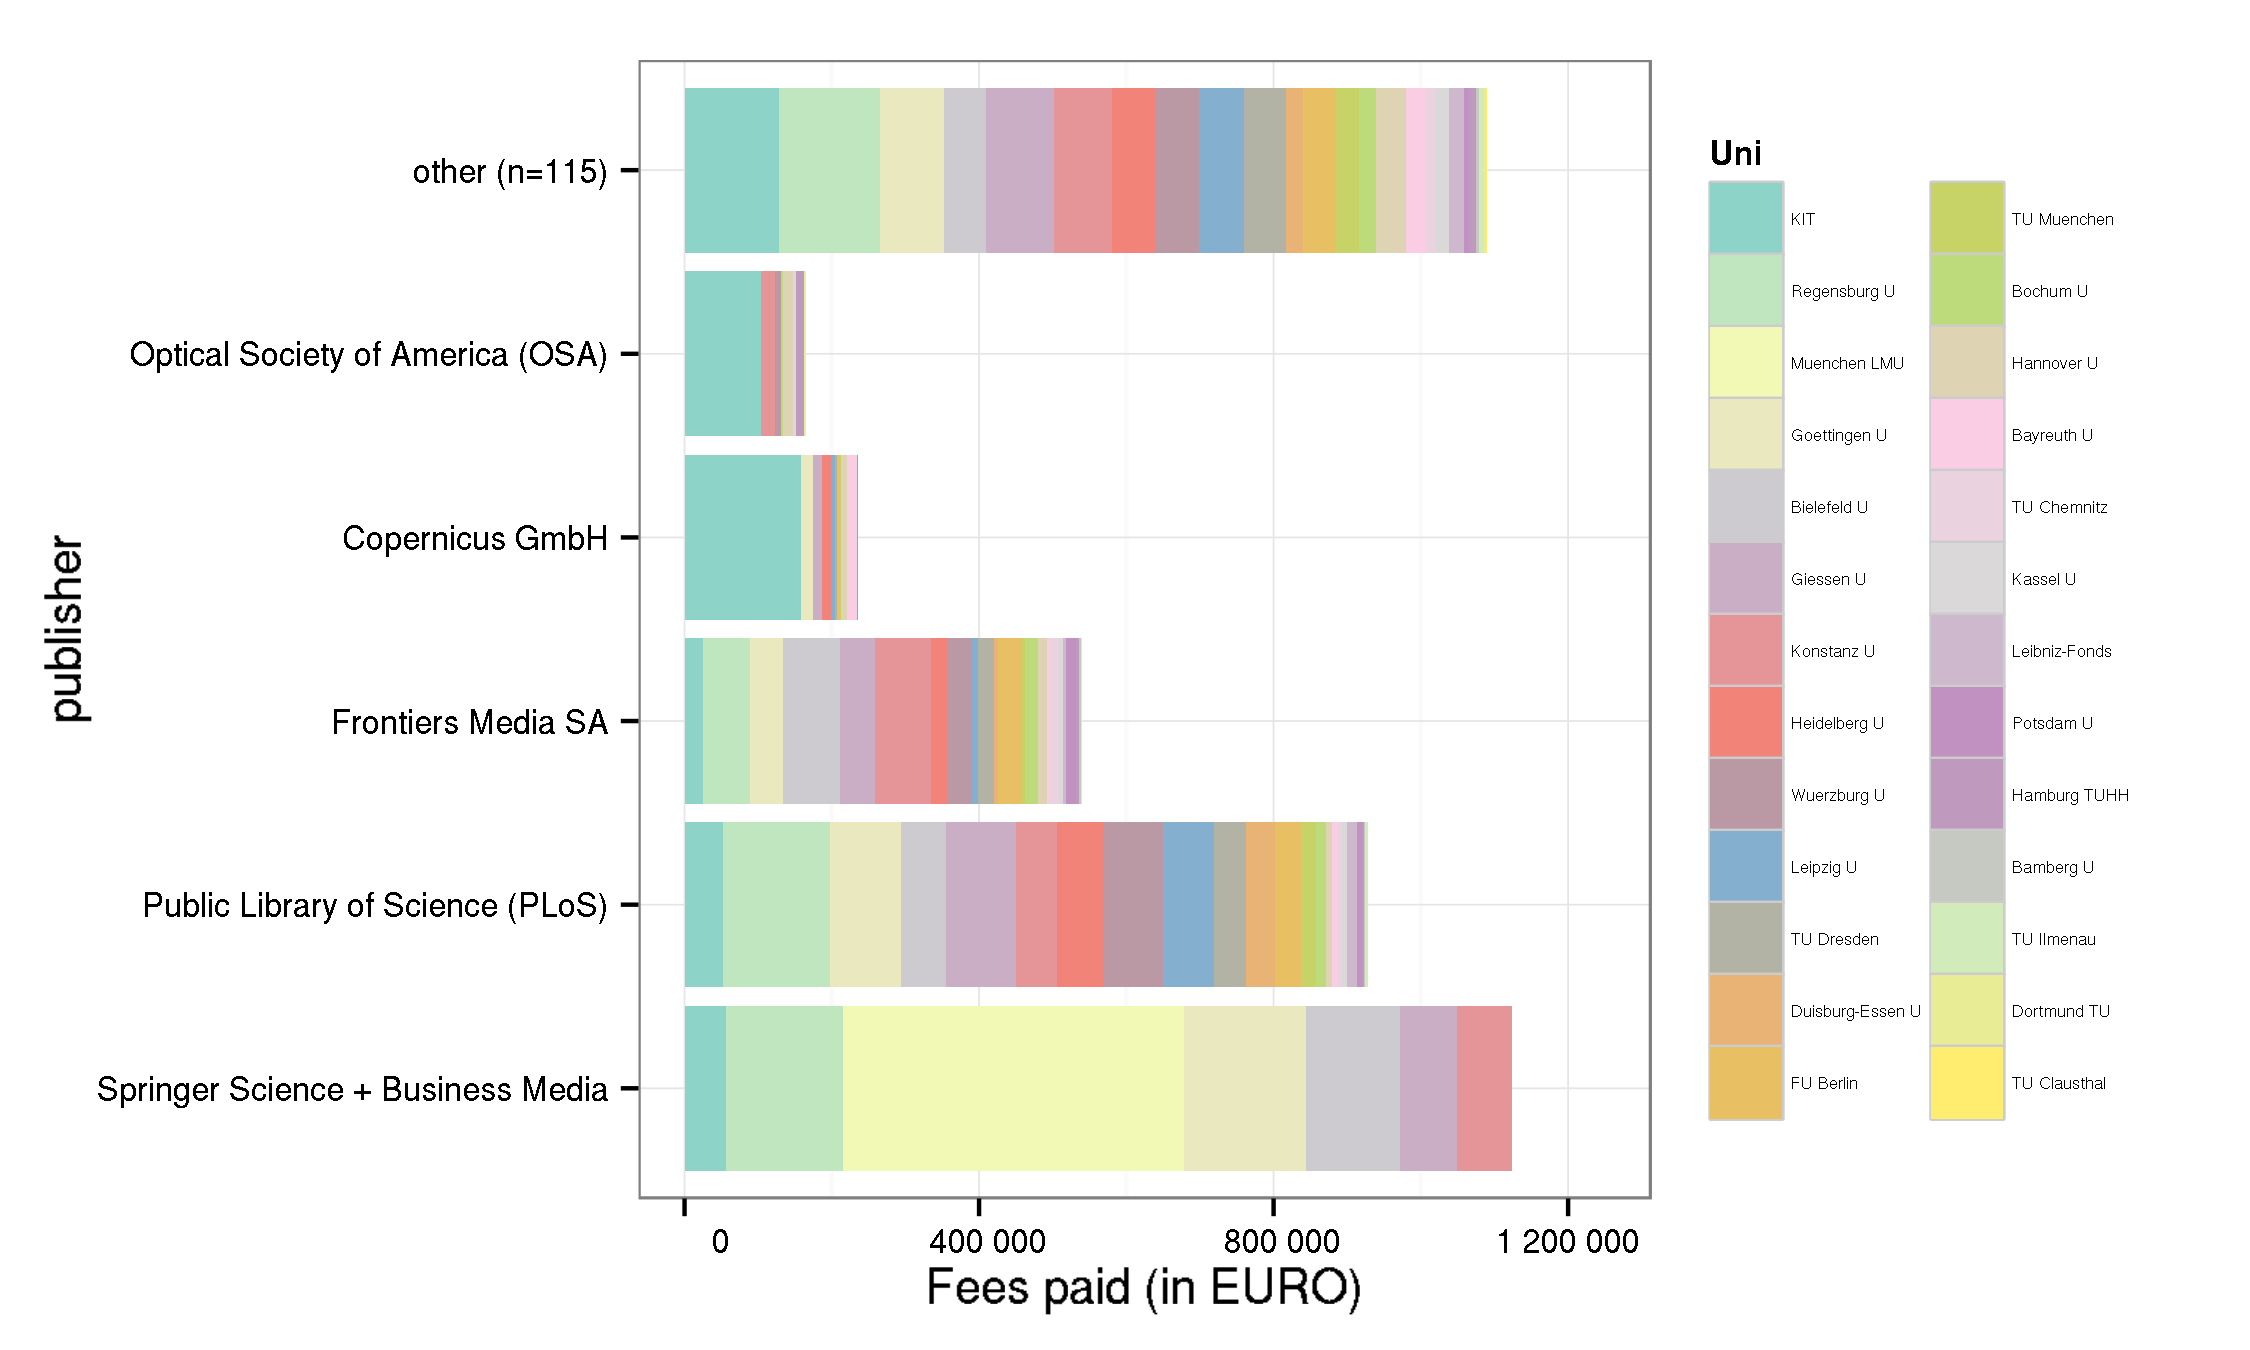
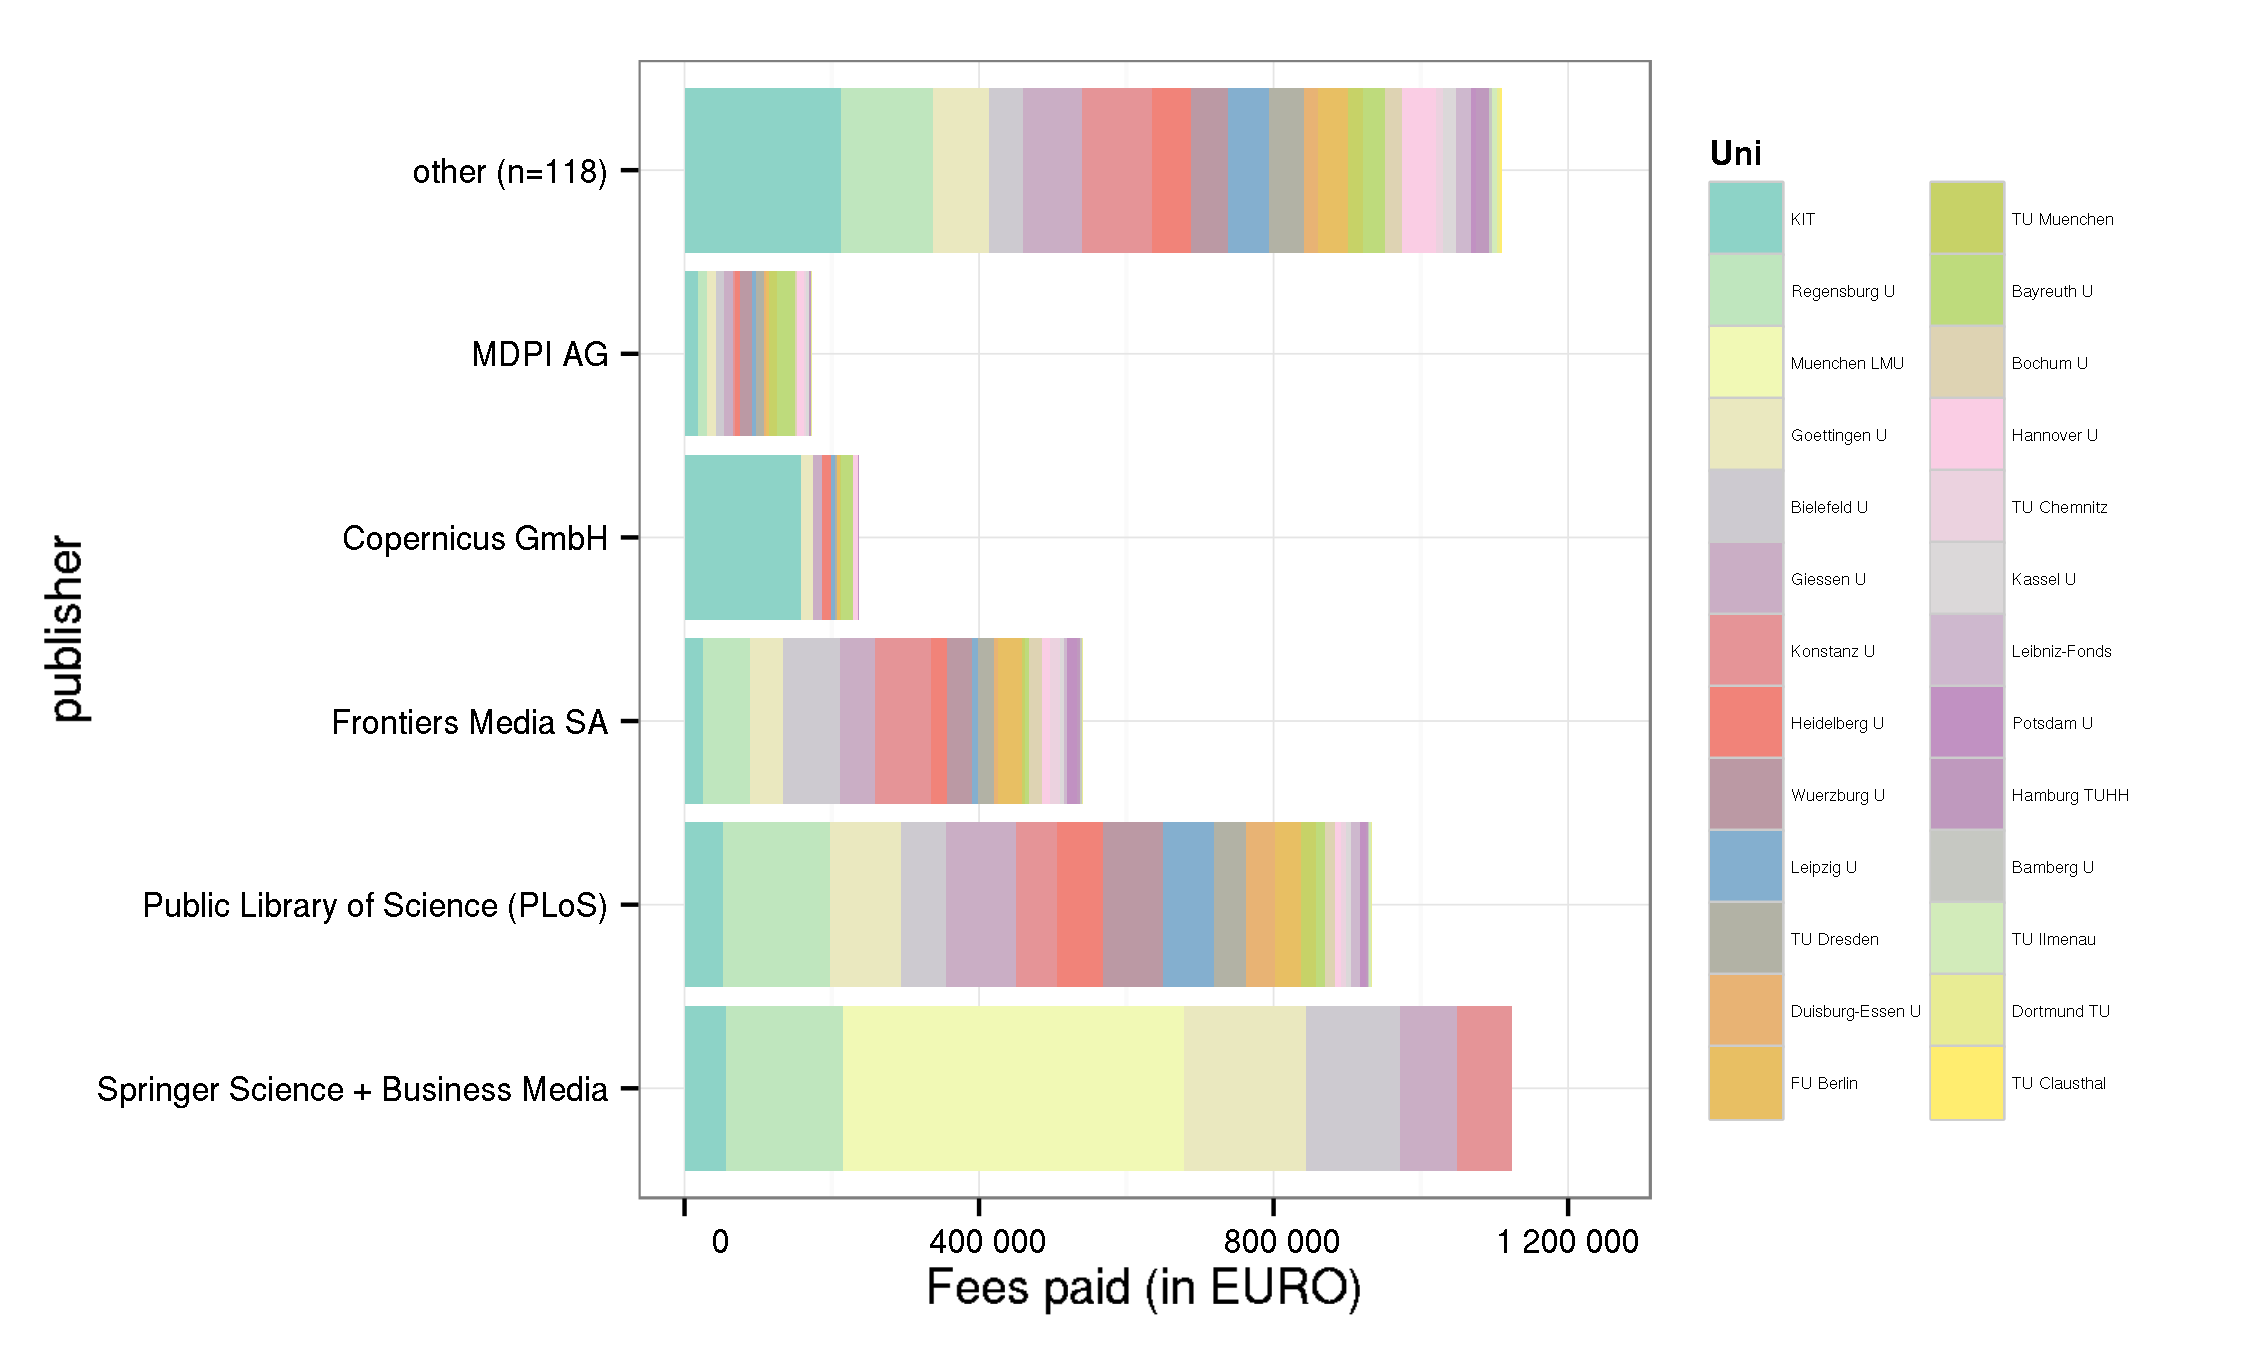
Added 2015 APC data from bayreuth (#116)

diff --git a/README.md b/README.md
@@ -61,13 +61,13 @@ The data content covers APCs as paid for by our central budget for the Max Planc
 
 Information on both open access journal articles and open access publication of articles in toll-access journals ("hybrid") are provided.
 
-In total,  8 787 024 € for  6 822 articles were paid by the participating unviversities. Average  fee is 1 288 € and the median 1 218 €.
+In total,  8 828 230 € for  6 857 articles were paid by the participating unviversities. Average  fee is 1 287.5 € and the median 1 218 €.
 
 ### Open Access Journals
 
 
 
-At the moment, the dataset releases information on 6 769 articles in open access journals which charge publication fees. Total expenditure amounts to  8 699 182 €. Average  fee is 1 285.2 € and the median 1 216 €.
+At the moment, the dataset releases information on 6 804 articles in open access journals which charge publication fees. Total expenditure amounts to  8 740 388 €. Average  fee is 1 284.6 € and the median 1 216 €.
 
 View dataset on [GitHub](https://github.com/OpenAPC/openapc-de/blob/master/data/apc_de.csv).
 
@@ -75,7 +75,7 @@ View dataset on [GitHub](https://github.com/OpenAPC/openapc-de/blob/master/data/
 |                                            | Articles| Fees paid in EURO| Mean Fee paid| Median|
 |:-------------------------------------------|--------:|-----------------:|-------------:|------:|
 |Bamberg U                                   |       16|             15932|           996|    960|
-|Bayreuth U                                  |       57|             64519|          1132|   1104|
+|Bayreuth U                                  |       92|            105725|          1149|   1200|
 |Bielefeld U                                 |      263|            322815|          1227|   1232|
 |Bochum U                                    |       71|             93546|          1318|   1438|
 |Dortmund TU                                 |        9|              8238|           915|    900|
